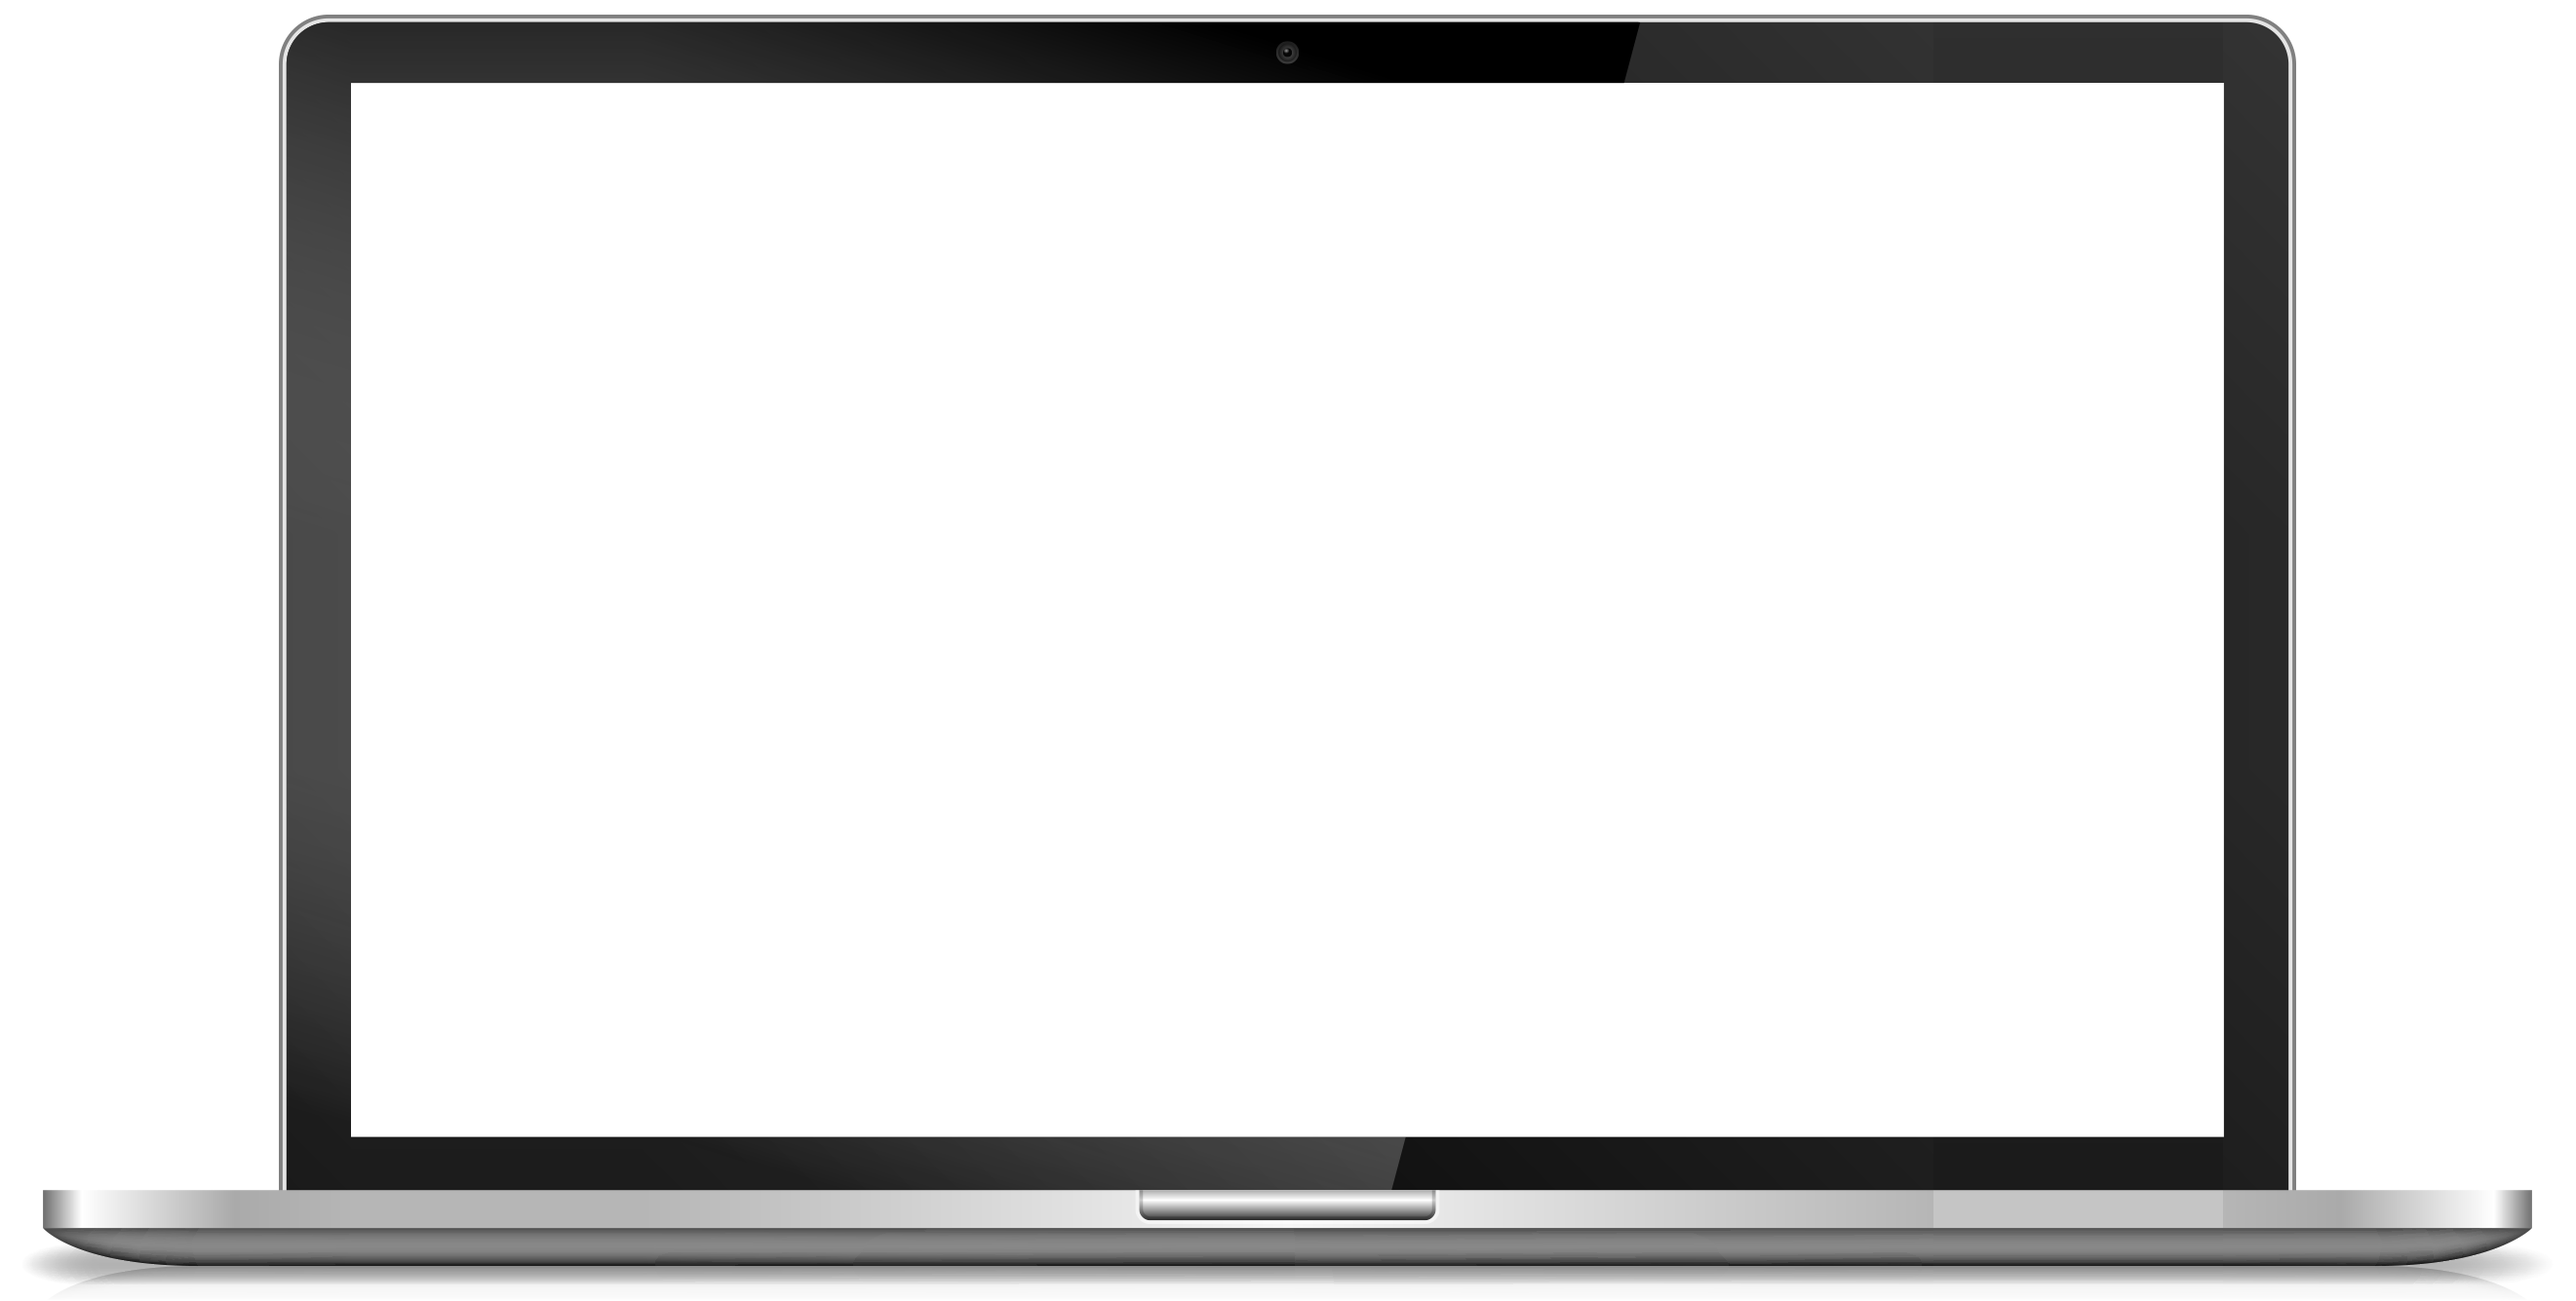
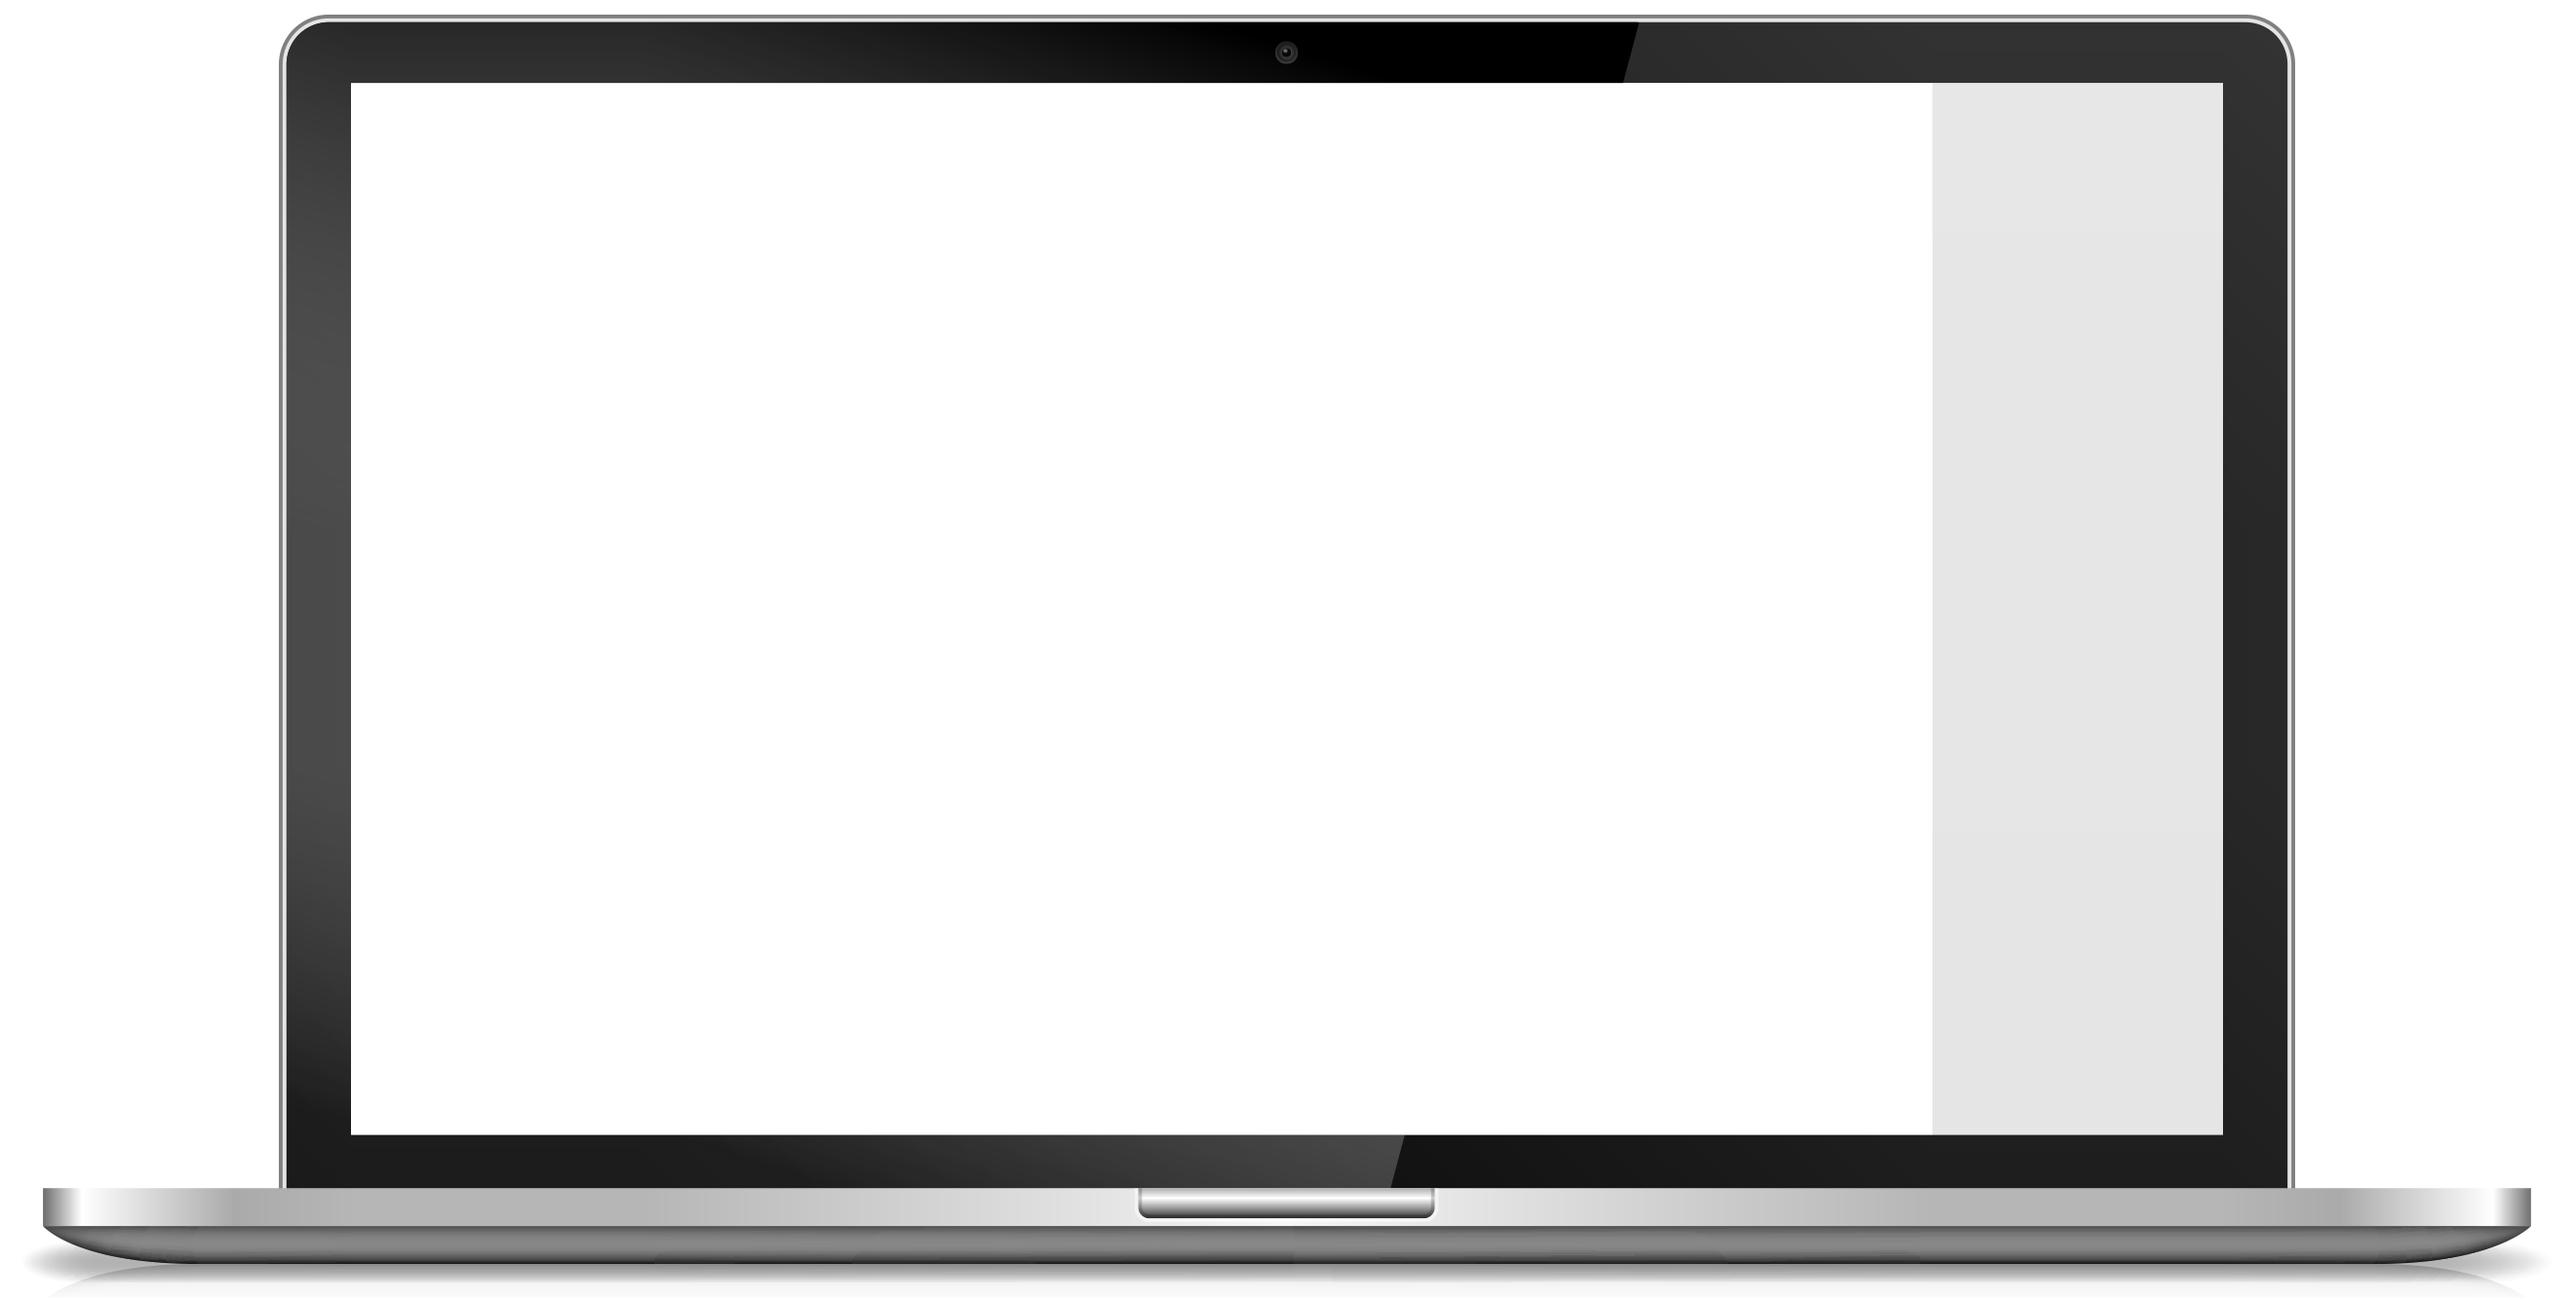
Combined images
The next step is to finish the Smartphone image composition.

Changed region(s): [[0.7452, 0.1537, 0.8694, 0.8913]]

diff --git a/PC_Image_Creator.py b/PC_Image_Creator.py
@@ -12,6 +12,7 @@ Procedure:
 '''
 
 from PIL import Image
+import sys
 
 file_destination='PC_Print_Save.png'
 imagefile = open(file_destination, 'wb')
@@ -19,8 +20,8 @@ imagefile = open(file_destination, 'wb')
 PC = Image.open('Images/PC_Crop.png')
 PC_width, PC_height = PC.size
 # Screen Square -> (360,85) - (1686,85) / (360,926) - (1686,926)
-Screen_X_Size = 1686 - 360
-Screen_Y_Size = 926 - 85
+Screen_X_Size = 1686 - 360 + 1
+Screen_Y_Size = 926 - 85 + 1
 
 Print_PC = Image.open('Print_PC.png')
 Print_PC_width, Print_PC_height = Print_PC.size
@@ -32,7 +33,7 @@ PC_Left_Line = PC.crop( (361, 0, 361+1, PC_height) )
 PC_Left2Center = PC.crop( (361, 0, 870, PC_height) )
 PC_Center = PC.crop( (870, 0, 870+315, PC_height) )
 PC_Center2Right = PC.crop( (1185, 0, 1185+501, PC_height) )
-PC_Right_Line = PC.crop( (1532, 0, 1532+1, PC_height) )
+PC_Right_Line = PC.crop( (1686, 0, 1686+1, PC_height) )
 PC_Right = PC.crop( (1686, 0, 1686+360, PC_height) )
 
 
@@ -71,6 +72,9 @@ if (Print_PC_width > Screen_X_Size):
     
     PC_New_Image.paste(PC_Right, (xPosition,yPosition))
     xPosition = xPosition + PC_Right.size[0]
+else:
+    print("Image too small")
+    sys.exit()
     
 PC_New_Image.save(open("Temp/XsizeFixed.png", 'wb'), "png", quality=100)
 PC_New_Image.close()
@@ -92,24 +96,31 @@ if (Print_PC_height > Screen_Y_Size):
     New_Image_Y = PC_New_Image.size[1] + Print_PC_height - Screen_Y_Size
     PC_New_Image = Image.new('RGBA', (New_Image_X, New_Image_Y))
     
-    
     Num_new_lines = Print_PC_height - Screen_Y_Size
     
     PC_New_Image.paste(PC_Top, (xPosition, yPosition))
     yPosition = yPosition + PC_Top.size[1]
     
-    while (addedLines <= Num_new_lines):
+    while (addedLines < Num_new_lines):
         addedLines += 1
         PC_New_Image.paste(PC_CenterLine, (xPosition, yPosition))
         yPosition = yPosition + PC_CenterLine.size[1]
     
     PC_New_Image.paste(PC_Bottom, (xPosition, yPosition))
     yPosition = yPosition + PC_Bottom.size[1]
+        
+else:
+    print("Image too small")
+    sys.exit()
     
 PC_New_Image.save(open("Temp/Ready.png", 'wb'), "png", quality=100)
+
+
+Combined_PC = Image.new('RGBA', (New_Image_X, New_Image_Y))
+Combined_PC.paste(PC_New_Image, (0,0))
+Combined_PC.paste(Print_PC, (360,85))
+
+Combined_PC.save('Combined_PC.png')
+
 PC_New_Image.close()
-
-
-PC.paste(Print_PC, (360, 85))
-PC.save('mix.png')
-PC.close()
+Combined_PC.close()

diff --git a/Img Combine.py b/Img Combine.py
@@ -1,16 +1,20 @@
 from PIL import Image
 
-images = [Image.open(x) for x in ['Images/PC_Crop.png', 'Images/Smartphone_Crop.png']]
-widths, heights = zip(*(i.size for i in images))
+images = [Image.open(x) for x in ['Combined_PC.png', 'Images/Smartphone_Crop.png']]
 
-total_width = sum(widths)
-max_height = max(heights)
+New_Image_X = images[0].size[0]
+New_Image_Y = images[0].size[1]
 
-new_im = Image.new('RGBA', (total_width, max_height))
+layer1 = Image.new('RGBA', (New_Image_X, New_Image_Y))
+layer2 = Image.new('RGBA', (New_Image_X, New_Image_Y))
 
-x_offset = 0
-for im in images:
-  new_im.paste(im, (x_offset,0))
-  x_offset += im.size[0]
+width_SP, height_SP = images[1].size
+Smartphone_Resize = images[1].resize([int(width_SP/1.7), int(height_SP/1.7)], Image.ANTIALIAS) 
 
-new_im.save('test.png')
+layer1.paste(images[0], (0,0))
+layer2.paste(Smartphone_Resize, (2000,160))
+
+images[0].convert('RGBA')
+images[1].convert('RGBA')
+
+Image.alpha_composite(layer1, layer2).save("Combined_Both.png")
